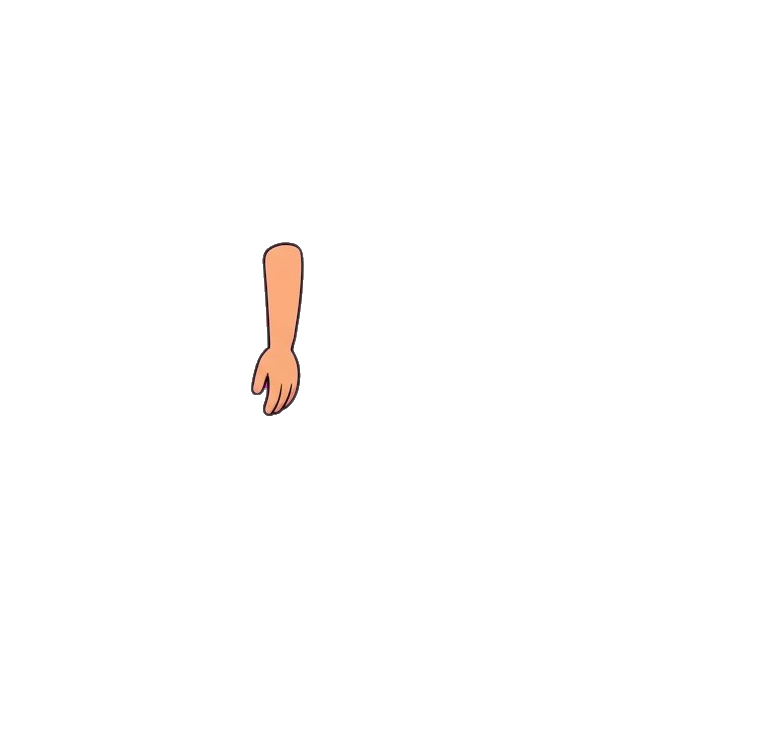
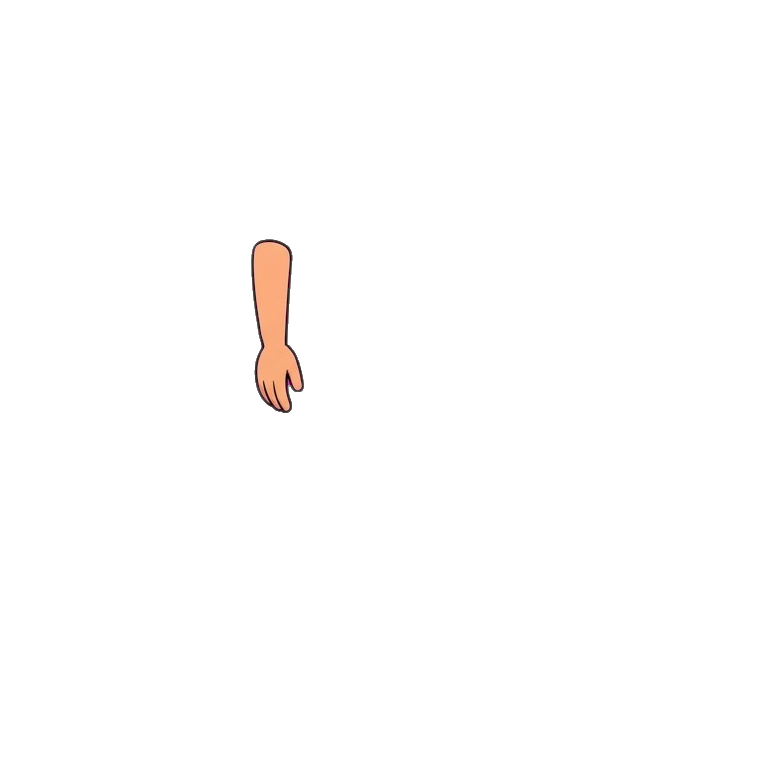
Sunbul: swap arms so thumbs face the body, longer neck entering the hood, remove yellow band
Claude-Session: https://claude.ai/code/session_01Q7BG2QyJYa9QwXs2XJJhx1

Changed region(s): [[0.3329, 0.3014, 0.4237, 0.5726]]

diff --git a/series/characters/sunbul/source/assemble_from_sheet.py b/series/characters/sunbul/source/assemble_from_sheet.py
@@ -95,7 +95,7 @@ N["leg_a"], N["leg_b"] = scaled(N["leg_a"], LEG_K), scaled(N["leg_b"], LEG_K)
 FACE_K = N["head"].width / 253.0          # the face parts were drawn for a 253 px wide head
 F = {k: scaled(v, FACE_K) for k, v in F.items()}
 
-CW, CH = 760, 730
+CW, CH = 760, 770
 CX = CW // 2
 
 
@@ -113,11 +113,23 @@ def cx_top(im, frac=0.2):
     return xs.mean()
 
 
+# ---------- longer neck (the stub on the sheet is too short to reach the hood opening) ----------
+def extend_neck(im, extra=46, band=6):
+    a = np.array(im)
+    ext = np.array(Image.fromarray(a[-band:]).resize((im.width, extra), Image.NEAREST))
+    return Image.fromarray(np.concatenate([a, ext], axis=0))
+
+
+HEAD0_H = N["head"].height
+_w = (np.array(N["head"])[..., 3] > 128).sum(axis=1)
+SKULL_H = next(i for i in range(HEAD0_H // 2, HEAD0_H) if _w[i] <= 0.4 * _w.max())
+N["head"] = extend_neck(N["head"])
+
 # ---------- layout ----------
 head_w, head_h = N["head"].size
 head_x, head_y = CX - head_w // 2, 18
 torso_w, torso_h = N["torso"].size
-torso_x, torso_y = CX - torso_w // 2, head_y + head_h - 38
+torso_x, torso_y = CX - torso_w // 2, head_y + SKULL_H + 4
 shorts_y = torso_y + torso_h - 28
 sh_l_x, sh_r_x = CX - N["shorts_l"].width + 2, CX - 2
 leg_y = shorts_y + N["shorts_l"].height - 40
@@ -135,7 +147,7 @@ pivot_r = (arm_r_pos[0] + arm_w / 2, arm_r_pos[1] + 24)
 
 # ---------- face ----------
 face_cx = head_x + head_w / 2
-EYE_Y, MOUTH_Y, NOSE_Y = head_y + round(head_h * 0.40), head_y + round(head_h * 0.62), head_y + round(head_h * 0.505)
+EYE_Y, MOUTH_Y, NOSE_Y = head_y + round(HEAD0_H * 0.40), head_y + round(HEAD0_H * 0.62), head_y + round(HEAD0_H * 0.505)
 
 
 def centred(c, im, cx, cy):
@@ -167,7 +179,6 @@ navy = tuple(int(v) for v in np.median(np.array(N["shorts_l"])[60:100, 20:60, :3
 ImageDraw.Draw(body).rectangle((CX - 14, shorts_y + 2, CX + 14, shorts_y + 60), fill=navy)
 put(body, N["shorts_l"], (sh_l_x, shorts_y))
 put(body, N["shorts_r"], (sh_r_x, shorts_y))
-body.alpha_composite(hood)
 put(body, N["head"], (head_x, head_y))
 put(body, N["torso"], (torso_x, torso_y))
 hair = scaled(N["hair"], 1.1)
@@ -187,7 +198,7 @@ layers = {
     "mouth_closed": single(F["mouth_closed"], MOUTH_Y), "mouth_half": single(F["mouth_half"], MOUTH_Y),
     "mouth_open": single(F["mouth_open"], MOUTH_Y),
 }
-arm_l, arm_r = N["arm"], mirror(N["arm"])
+arm_l, arm_r = mirror(N["arm"]), N["arm"]
 sleeve_l, sleeve_r = N["sleeve_a"], mirror(N["sleeve_a"])
 for name, im, pos in (("arm_l", arm_l, arm_l_pos), ("arm_r", arm_r, arm_r_pos),
                       ("sleeve_l", sleeve_l, sleeve_l_pos), ("sleeve_r", sleeve_r, sleeve_r_pos)):
